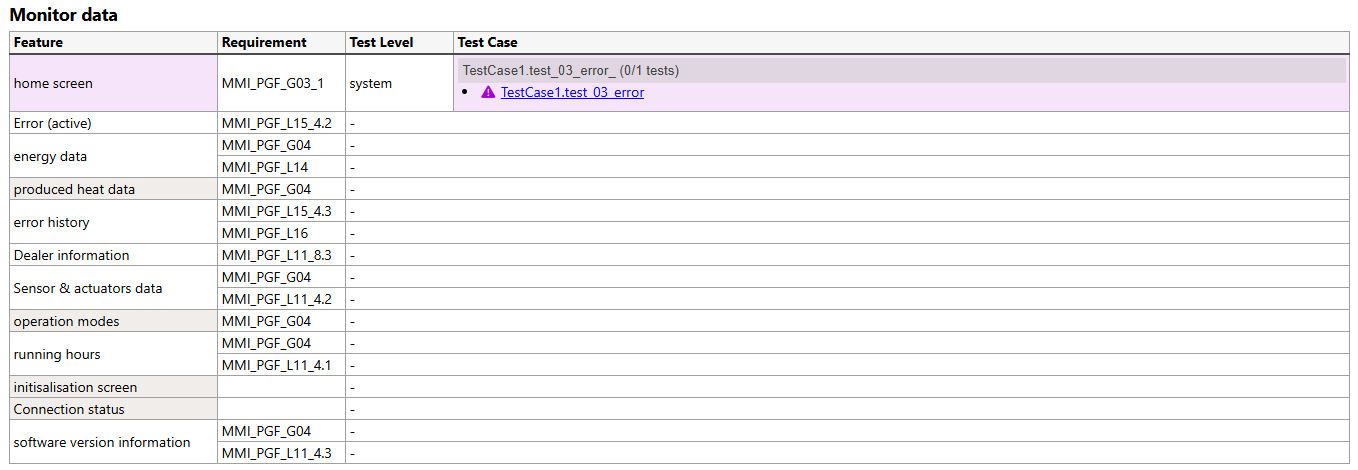
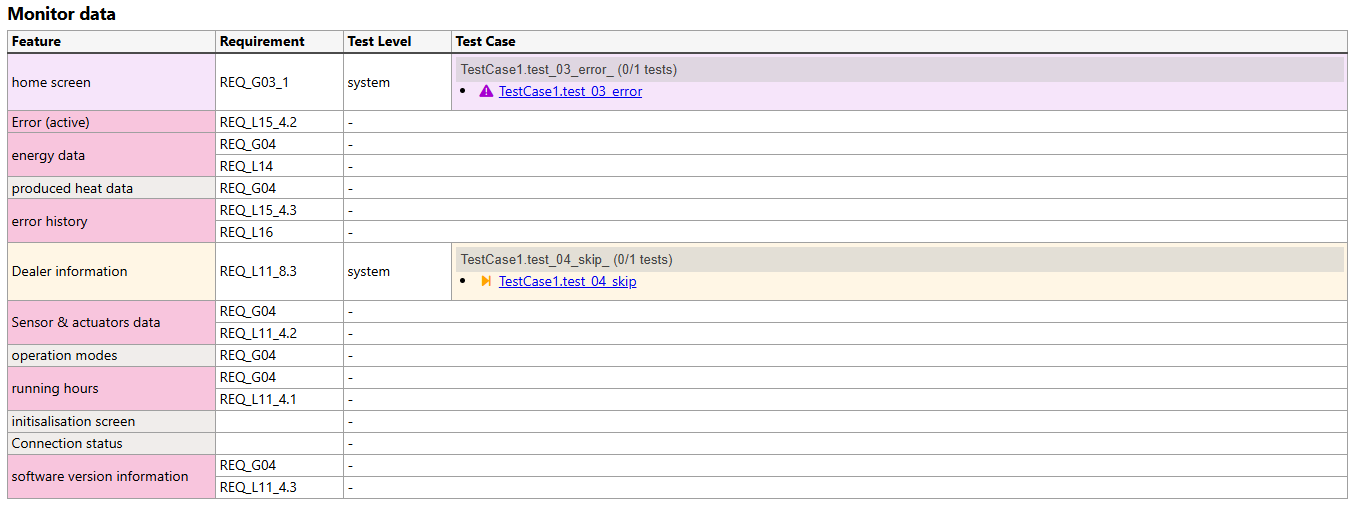
Add background color for not covered features (refs #14460)

diff --git a/src/brunhilda/templates/themes/base.css b/src/brunhilda/templates/themes/base.css
@@ -1252,6 +1252,10 @@ ol.lowerroman {
     background-color: var(--color--out-of-scope-bg);
 }
 
+.feature--not-covered {
+    background-color: var(--color--not-covered-bg);
+}
+
 
 /**************************************/
 /* Style of requirements fields */

diff --git a/doc/producer-guide.md b/doc/producer-guide.md
@@ -81,7 +81,7 @@ Example:
 @exec-time: 46
 @spec: requirement_156
 @covering:
-@environment: INT_ENV_MMI1, INT_ENV_MMI2, INT_ENV_VIRT
+@environment: INT_ENV_1, INT_ENV_2, INT_ENV_VIRT
 @priority: mid
 ```
 
@@ -132,7 +132,7 @@ def test_01(self):
     @exec-time: 46
     @spec: requirement_156
     @covering:
-    @environment: INT_ENV_MMI1, INT_ENV_MMI2, INT_ENV_VIRT
+    @environment: INT_ENV_1, INT_ENV_2, INT_ENV_VIRT
     @priority: mid
     @variants:
 
@@ -433,7 +433,7 @@ runner = brunhilda.BRunhilda(user_data={'version': '1.0.0'},
                              verbosity=3,
                              stream=sys.stdout,
                              name='system',
-                             dut='MMI2',
+                             dut='PC1',
                              extra_data_output="dev/extra")
 
 # create the test loader
@@ -585,11 +585,11 @@ BRunhilda supports linking DUT features to individual test requirements. Each fe
 feature group 1:            # group of features
 - feature A:                # feature A
     link:
-      MMI_PGF_G04:          # name of the specification used in test @spec tag
+      REQ_G04:              # name of the specification used in test @spec tag
         bc:                 # additional specification parameter name (sub-test parameter)
         - 9.E               # additional specification parameter value (sub-test parameter)
         - 9.*               # additional specification parameter value wildcard (sub-test parameter)
-      MMI_PGF_L21_4: {}     # specification without additional parameter
+      REQ_L21_4: {}         # specification without additional parameter
     order: 8100             # numerical order
 - feature B:
     ...

diff --git a/CHANGELOG.md b/CHANGELOG.md
@@ -4,6 +4,8 @@
 
 ### 🪄 Added
 
+- Add background color for not covered features in Features Summary (refs [#14460](https://redmine.benderrobotics.com/issues/14460))
+
 ### 🐛 Fixed
 
 - Fix fixed header overlapping target elements when scrolling to anchors (refs [#14560](https://redmine.benderrobotics.com/issues/14560))
